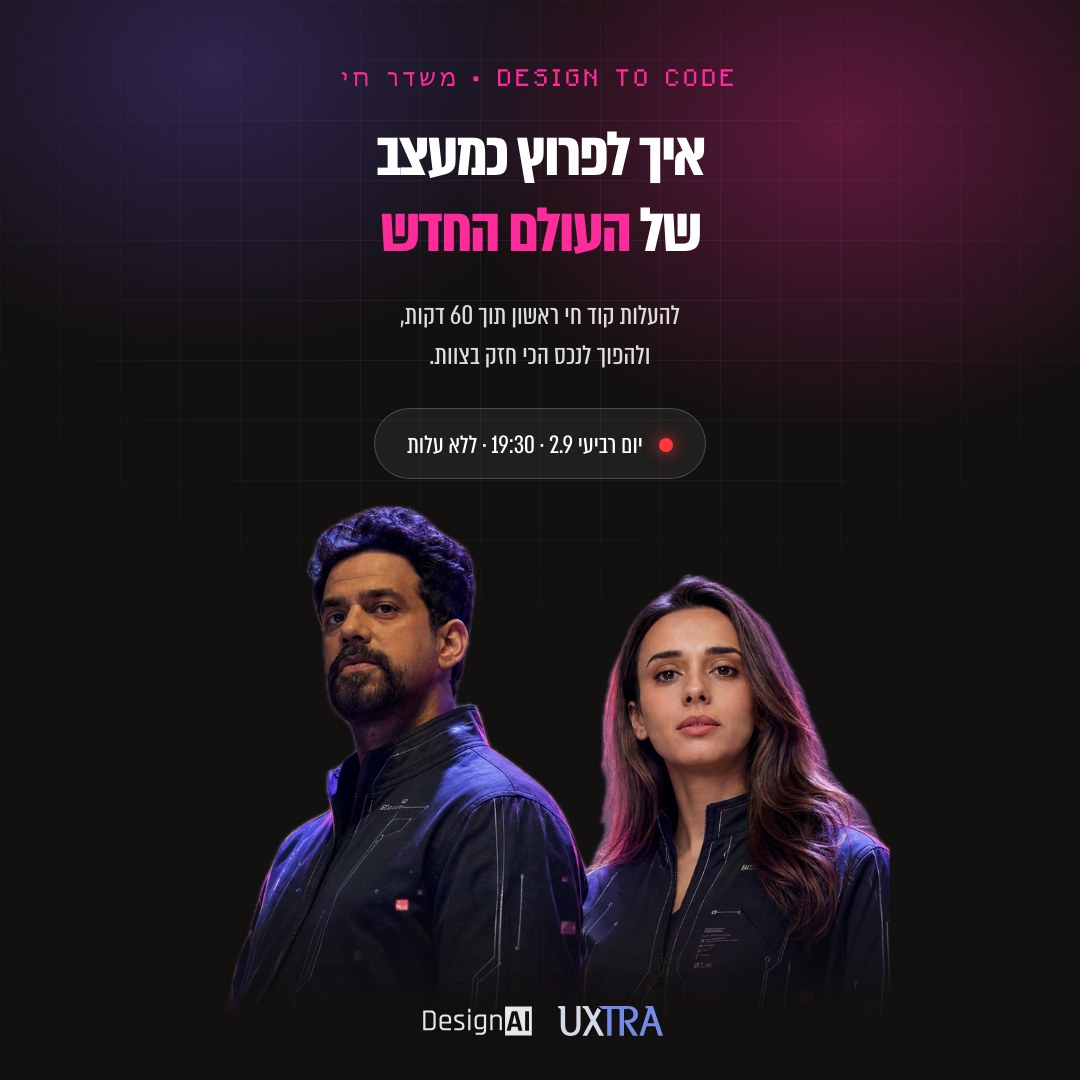
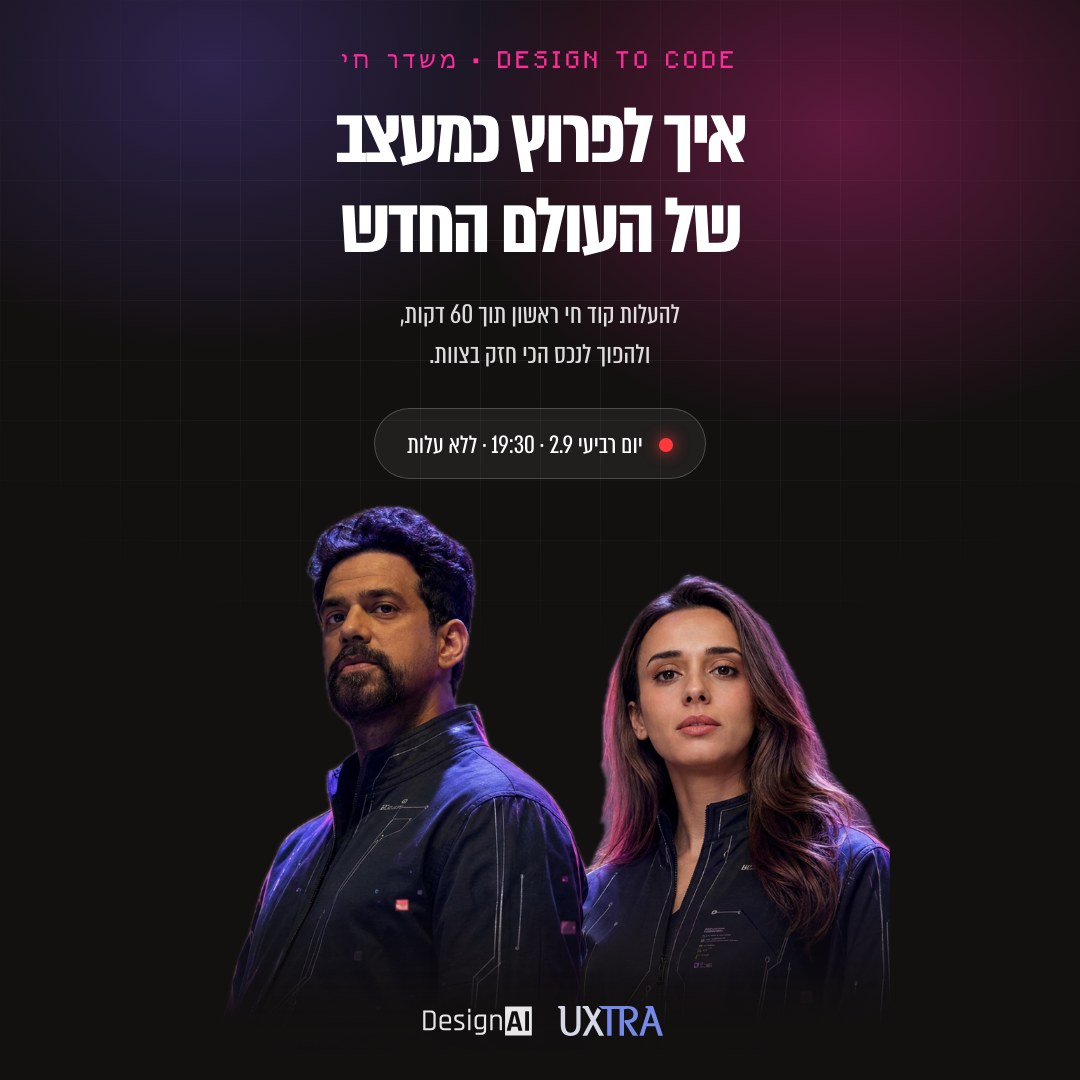
Set the Instagram headline larger, all-white and tighter
Up a quarter to 90px with the leading closed to 1.0, and the pink accent
dropped so the whole line reads as one. The block above it gives back the
height the larger type takes, so the pair below still clear it.

diff --git a/og/instagram.html b/og/instagram.html
@@ -57,7 +57,7 @@
   .copy {
     position: absolute;
     top: 0; left: 0; right: 0;
-    padding: 62px 72px 0;
+    padding: 44px 72px 0;
     text-align: center;
     z-index: 2;
   }
@@ -68,20 +68,18 @@
     letter-spacing: 0.16em;
     color: #ff2b9b;
     text-transform: uppercase;
-    margin-bottom: 26px;
+    margin-bottom: 20px;
   }
 
   h1 {
-    font-size: 72px;
+    font-size: 90px;
     font-weight: 700;
-    line-height: 1.06;
+    line-height: 1.0;
     letter-spacing: -0.03em;
   }
 
-  h1 em { font-style: normal; color: #ff2b9b; }
-
   .sub {
-    margin-top: 26px;
+    margin-top: 22px;
     font-size: 31px;
     line-height: 1.3;
     color: rgba(255,255,255,0.86);
@@ -150,7 +148,7 @@
     <div class="eyebrow">Design to Code · משדר חי</div>
     <h1>
       איך לפרוץ כמעצב<br />
-      של <em>העולם החדש</em>
+      של העולם החדש
     </h1>
     <p class="sub">
       להעלות קוד חי ראשון תוך 60 דקות,<br />
